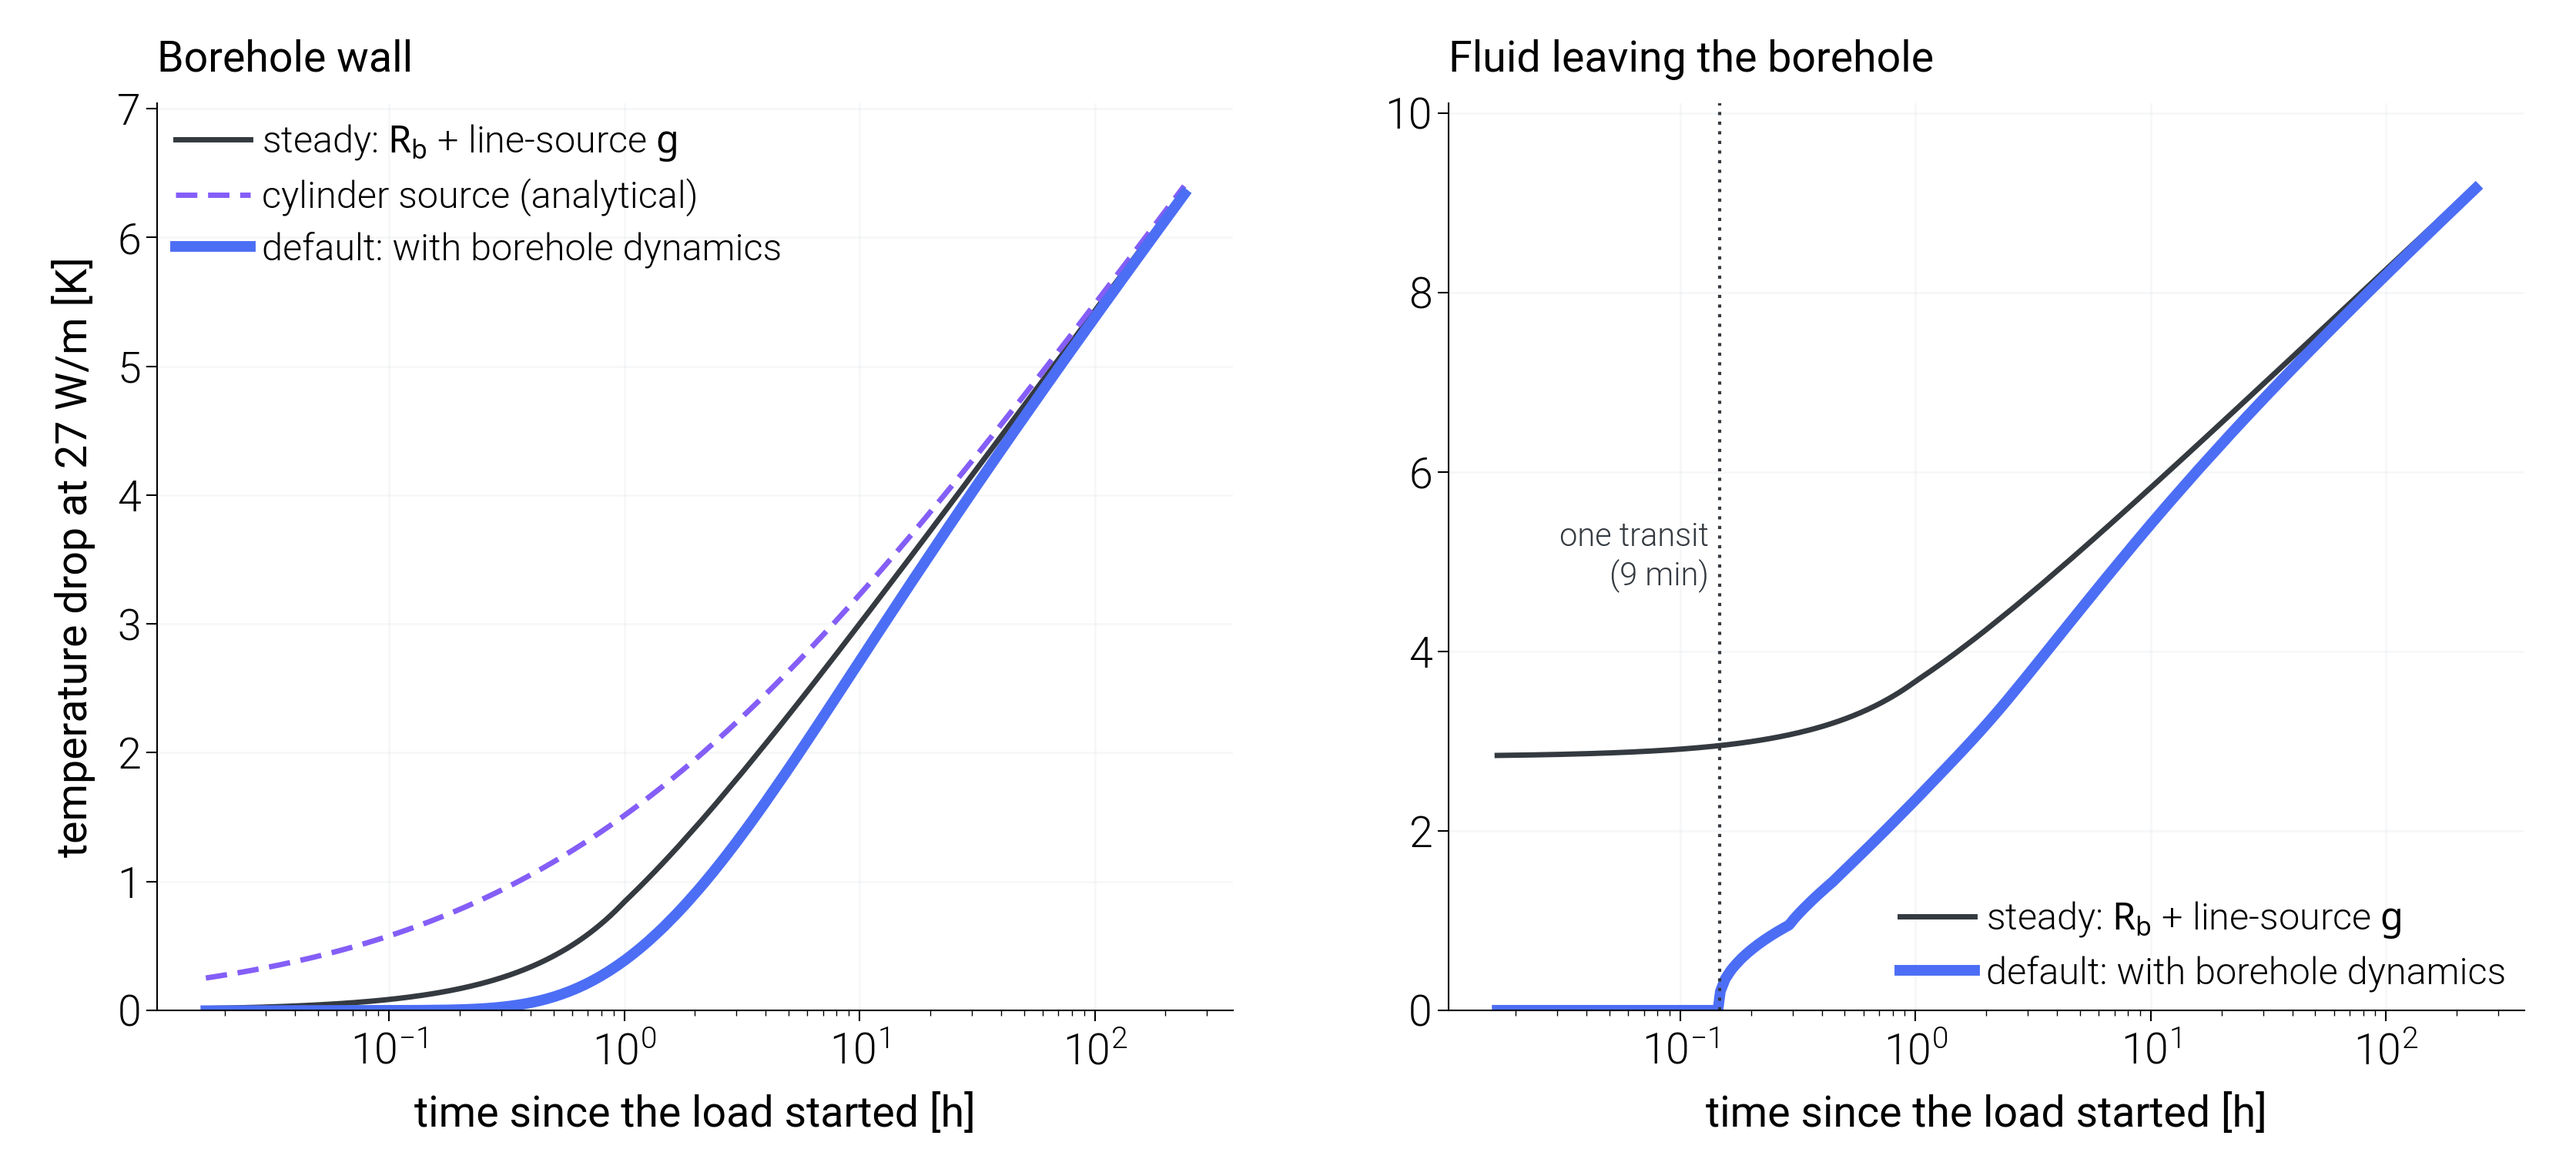
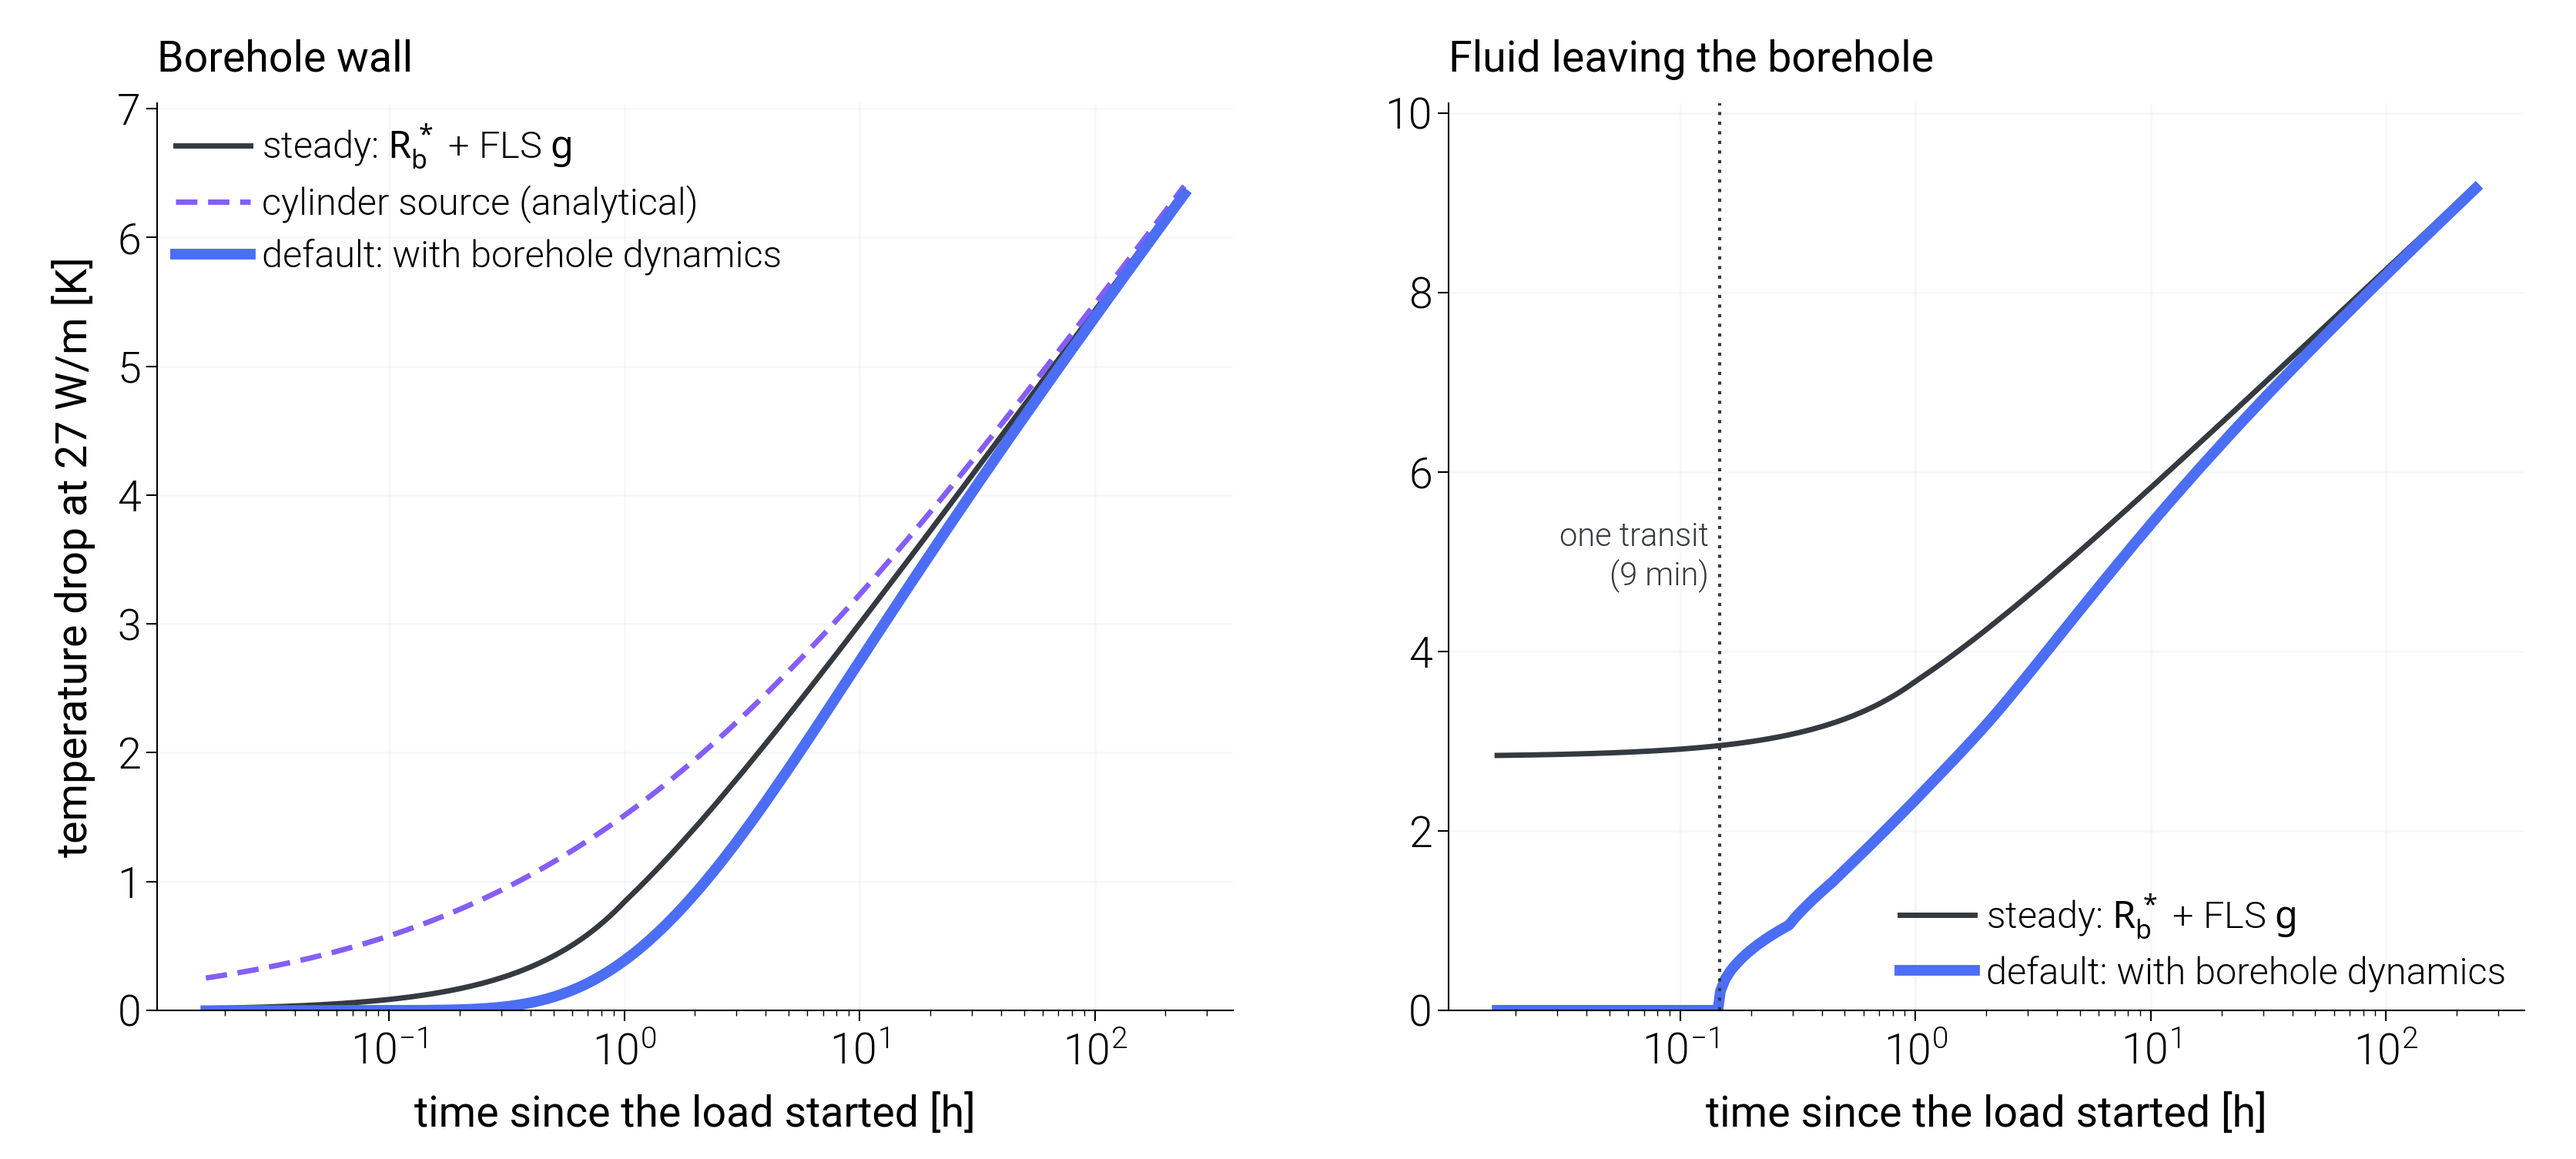
docs(ground): 그림 범례의 정상 모델을 'R_b* + FLS g' 로 (#96)
호스트가 쓰는 저항은 유효 R_b* 이고, g-function 은 무한 선원이 아니라 유한 선원(FLS)이다.
곡선 데이터는 그대로.

Refs #96

Changed region(s): [[0.0622, 0.0937, 0.3109, 0.2498], [0.7462, 0.7807, 0.9327, 0.812]]

diff --git a/scripts/visualization/ground_transient_response.py b/scripts/visualization/ground_transient_response.py
@@ -38,7 +38,7 @@ Q_LINE = 27.0  # W/m, extraction per metre of borehole
 # "Steady" is the inside of the borehole (a resistance, no heat capacity); the
 # ground is transient in both models.
 FLOW_LPM = 24.0  # L/min through the borehole (the 8 kW default is 28.7)
-LABEL_STEADY = r"steady: $R_b$ + line-source $g$"
+LABEL_STEADY = r"steady: $R_b^*$ + FLS $g$"
 LABEL_DYNAMIC = "default: with borehole dynamics"
 ON_MIN, OFF_MIN = 10, 20
 
